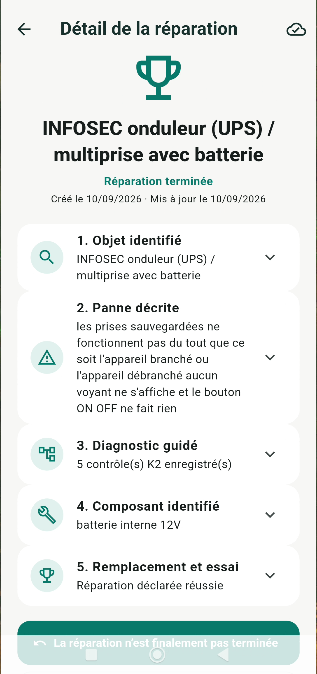
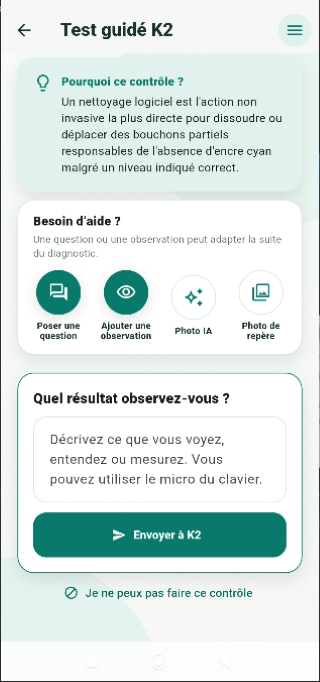
Update K2 Repair app screenshots

diff --git a/k2-repair/index.html b/k2-repair/index.html
@@ -68,7 +68,7 @@
             <div class="phone-screen">
               <img
                 src="../assets/k2-repair-screen-detail.png"
-                alt="Écran de détail d’une réparation dans K2 Repair"
+                alt="Écran de test guidé de K2 Repair"
               />
             </div>
           </div>
